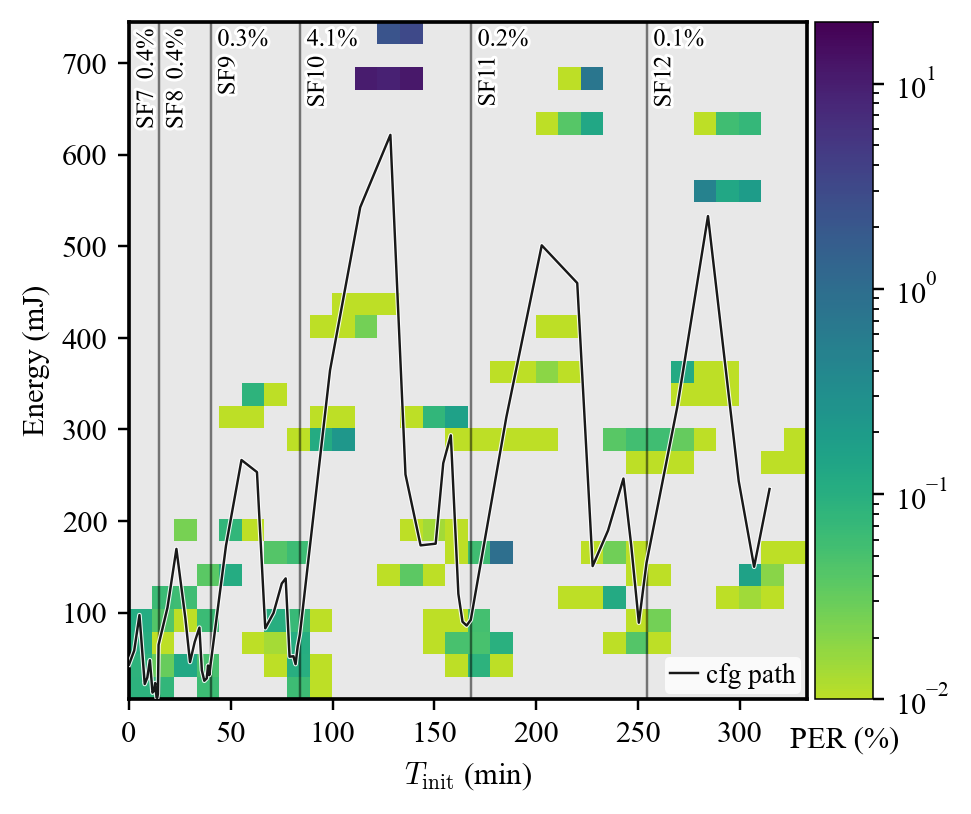
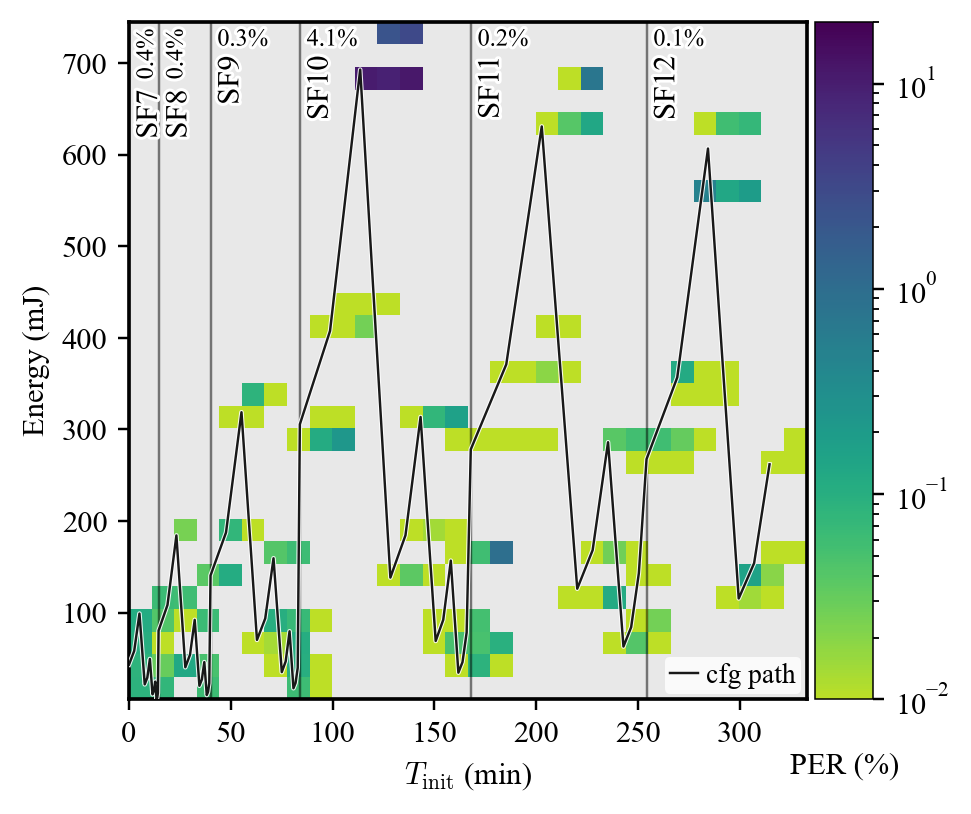
assadfsdfsaf

diff --git a/tools/plots/plot_per_gradient_energy_vs_time.py b/tools/plots/plot_per_gradient_energy_vs_time.py
@@ -916,7 +916,7 @@ def plot_combined_heatmap(output_dir, config_dir, data_root, filters, time_bins,
             else:
                 y_label = e_max - e_range * 0.05
             txt = ax.text(x_label, y_label, f"SF{sf}", ha="right", va="top",
-                            fontsize=8, color="black", zorder=6,
+                            fontsize=IEEE_FONTSIZE, color="black", zorder=6,
                             rotation=90, rotation_mode="anchor")
             txt.set_path_effects([patheffects.withStroke(linewidth=2, foreground="white")])
 
@@ -941,29 +941,22 @@ def plot_combined_heatmap(output_dir, config_dir, data_root, filters, time_bins,
                                      rotation=0, rotation_mode="anchor")
                     sub.set_path_effects([patheffects.withStroke(linewidth=2, foreground="white")])
 
-        # Configuration path: connect mean energy centroids per config period
+        # Configuration path: use switch times and energy averaged across all distances (v2 style)
         if pts:
             path_times = []
             path_energies = []
+            path_configs = []
             for i, (tm, sf, bw, tp) in enumerate(switches):
-                # Determine config period
-                t_start = tm
-                if i + 1 < len(switches):
-                    t_end = switches[i + 1][0]
-                else:
-                    t_end = t_max
-                # Clip to visible range
-                t_start_c = max(t_start, t_min)
-                t_end_c = min(t_end, t_max)
-                if t_start_c >= t_end_c:
-                    continue
-                # Packets in this config period
-                cfg_pts = [p for p in pts if t_start <= p[0] < t_end]
-                if cfg_pts:
-                    avg_e = float(np.mean([p[1] for p in cfg_pts]))
-                    path_times.append(tm)  # Use actual config switch time
+                avg_e = _config_avg_energy(data_root, filters, sf, bw, tp)
+                if avg_e is not None:
+                    path_times.append(tm)
                     path_energies.append(avg_e)
+                    path_configs.append((sf, bw, tp))
             if len(path_times) >= 2:
+                print(f"  Combined path: {len(path_times)} points")
+                for i, (t, e, cfg) in enumerate(zip(path_times, path_energies, path_configs)):
+                    cfg_str = f"SF{cfg[0]}_BW{cfg[1]}_TP{cfg[2]}"
+                    print(f"    [{i}] t={t:.2f} min, e={e:.2f} mJ ({cfg_str})")
                 ax.plot(path_times, path_energies, color="white", linewidth=1.5, zorder=3, alpha=0.9)
                 ax.plot(path_times, path_energies, color="black", linewidth=0.8, zorder=3.5, alpha=0.9, label="cfg path")
                 ax.legend(loc="lower right", fontsize=IEEE_FONTSIZE - 1, framealpha=0.8, edgecolor="none",
@@ -979,9 +972,12 @@ def plot_combined_heatmap(output_dir, config_dir, data_root, filters, time_bins,
     cax_pos = cax.get_position()
     cax.set_position([cax_pos.x0 - 0.15, cax_pos.y0, cax_pos.width, cax_pos.height])
 
-    # PER label below the colorbar, aligned with x-axis tick labels
+    # PER label below the colorbar, aligned with x-axis label
+    ax_pos = ax.get_position()
     cax_pos2 = cax.get_position()
-    fig.text(cax_pos2.x0 + cax_pos2.width / 2, cax_pos2.y0 - 0.03, "PER (%)",
+    # Use same y as x-axis label would be (slightly below plot bottom)
+    y_xlabel = ax_pos.y0 - 0.06
+    fig.text(cax_pos2.x0 + cax_pos2.width / 2, y_xlabel, "PER (%)",
              ha="center", va="top", fontsize=IEEE_FONTSIZE, color="black")
 
     _normalize_figure_fonts(fig)
@@ -1065,25 +1061,26 @@ def plot_param_transitions_bw(output_dir, config_dir, data_root, filters, time_b
             x_label = ts_c + (t_max - t_min) * 0.01
             y_label = e_max - e_range * 0.01
             txt = ax.text(x_label, y_label, f"SF{sf}", ha="right", va="top",
-                         fontsize=8, color="black", zorder=6,
+                         fontsize=IEEE_FONTSIZE, color="black", zorder=6,
                          rotation=90, rotation_mode="anchor")
             txt.set_path_effects([patheffects.withStroke(linewidth=2, foreground="white")])
 
-        # Configuration path: show full path through all configs
+        # Configuration path: one point per (SF, BW, TP) in actual measurement order
+        # Follows SF -> BW1(TP1,2,3) -> BW2(TP1,2,3) -> BW3(TP1,2,3) -> SF8 -> ...
         if pts:
             path_times = []
             path_energies = []
-            for i, (tm, sf, bw, tp) in enumerate(switches):
-                t_start = tm
-                t_end = switches[i + 1][0] if i + 1 < len(switches) else t_max
-                if max(t_start, t_min) >= min(t_end, t_max):
-                    continue
-                cfg_pts = [p for p in pts if t_start <= p[0] < t_end]
-                if cfg_pts:
-                    avg_e = float(np.mean([p[1] for p in cfg_pts]))
-                    path_times.append(tm)  # Use actual config switch time
+            path_labels = []
+            for tm, sf, bw, tp in switches:
+                avg_e = _config_avg_energy(data_root, filters, sf, bw, tp)
+                if avg_e is not None:
+                    path_times.append(tm)
                     path_energies.append(avg_e)
+                    path_labels.append(f"SF{sf}_BW{bw}_TP{tp}")
             if len(path_times) >= 2:
+                print(f"  BW plot path (SF->BWs->TPs): {len(path_times)} points")
+                for idx, (t, e, lbl) in enumerate(zip(path_times, path_energies, path_labels)):
+                    print(f"    [{idx}] {lbl}: t={t:.2f} min, e={e:.2f} mJ")
                 ax.plot(path_times, path_energies, color="white", linewidth=1.5, zorder=3, alpha=0.9)
                 ax.plot(path_times, path_energies, color="black", linewidth=0.8, zorder=3.5, alpha=0.9, label="cfg path")
                 ax.legend(loc="lower right", fontsize=IEEE_FONTSIZE - 1, framealpha=0.8, edgecolor="none",
@@ -1094,7 +1091,7 @@ def plot_param_transitions_bw(output_dir, config_dir, data_root, filters, time_b
     gs_cbars = gs_right[0].subgridspec(1, len(BW_VALUES), wspace=0.02)
     _add_param_colorbars(fig, gs_cbars, BW_VALUES, log_vmin, vmax)
     ax_leg = fig.add_subplot(gs_right[1])
-    _add_labels_inside_colorbars(fig, labels_bw, color="white", stroke_color="black")
+    _add_labels_inside_colorbars(fig, labels_bw, color="black")
     _add_legend_labels(ax_leg, [], unit="kHz", unit_y=0.88, unit_va="top")
     _pull_scales_closer(fig, len(BW_VALUES))
     _align_colorbars_to_plot(fig, len(BW_VALUES))
@@ -1164,28 +1161,39 @@ def plot_param_transitions_sf(output_dir, config_dir, data_root, filters, time_b
             x_label = ts_c + (t_max - t_min) * 0.01
             y_label = e_max - e_range * 0.01
             txt = ax.text(x_label, y_label, f"SF{sf}", ha="right", va="top",
-                         fontsize=8, color="black", zorder=6,
+                         fontsize=IEEE_FONTSIZE, color="black", zorder=6,
                          rotation=90, rotation_mode="anchor")
             txt.set_path_effects([patheffects.withStroke(linewidth=2, foreground="white")])
 
             if pts:
                 sf_pts = [p for p in pts if ts <= p[0] < te]
 
-        # Configuration path: show full path through all configs
+        # Configuration path: SF→BW→TP order (within each SF: BW62.5-TP2,12,22 → BW125-TP2,12,22 → ... → BW500-TP2,12,22)
         if pts:
+            # Store each config's switch time and energy (v2 style: switch time + _config_avg_energy)
+            config_data = {}  # (sf, bw, tp) -> (switch_time, avg_energy)
+            for i, (tm, sf, bw, tp) in enumerate(switches):
+                key = (sf, bw, tp)
+                avg_e = _config_avg_energy(data_root, filters, sf, bw, tp)
+                if avg_e is not None:
+                    config_data[key] = (tm, avg_e)
+            # Iterate SF→BW→TP: each SF in sequence, within SF go BW62.5→500 with all TPs
             path_times = []
             path_energies = []
-            for i, (tm, sf, bw, tp) in enumerate(switches):
-                t_start = tm
-                t_end = switches[i + 1][0] if i + 1 < len(switches) else t_max
-                if max(t_start, t_min) >= min(t_end, t_max):
-                    continue
-                cfg_pts = [p for p in pts if t_start <= p[0] < t_end]
-                if cfg_pts:
-                    avg_e = float(np.mean([p[1] for p in cfg_pts]))
-                    path_times.append(tm)  # Use actual config switch time
-                    path_energies.append(avg_e)
+            path_labels = []
+            for sf in SF_VALUES:
+                for bw in BW_VALUES:
+                    for tp in TP_VALUES:
+                        key = (sf, bw, tp)
+                        if key in config_data:
+                            tm, avg_e = config_data[key]
+                            path_times.append(tm)
+                            path_energies.append(avg_e)
+                            path_labels.append(f"SF{sf}_BW{bw}_TP{tp}")
             if len(path_times) >= 2:
+                print(f"  SF plot path (SF→BW→TP order): {len(path_times)} points")
+                for idx, (t, e, lbl) in enumerate(zip(path_times, path_energies, path_labels)):
+                    print(f"    [{idx}] {lbl}: t={t:.2f} min, e={e:.2f} mJ")
                 ax.plot(path_times, path_energies, color="white", linewidth=1.5, zorder=3, alpha=0.9)
                 ax.plot(path_times, path_energies, color="black", linewidth=0.8, zorder=3.5, alpha=0.9, label="cfg path")
                 ax.legend(loc="lower right", fontsize=IEEE_FONTSIZE - 1, framealpha=0.8, edgecolor="none",
@@ -1263,25 +1271,20 @@ def plot_param_transitions_tp(output_dir, config_dir, data_root, filters, time_b
             x_label = ts_c + (t_max - t_min) * 0.01
             y_label = e_max - e_range * 0.01
             txt = ax.text(x_label, y_label, f"SF{sf}", ha="right", va="top",
-                         fontsize=8, color="black", zorder=6,
+                         fontsize=IEEE_FONTSIZE, color="black", zorder=6,
                          rotation=90, rotation_mode="anchor")
             txt.set_path_effects([patheffects.withStroke(linewidth=2, foreground="white")])
 
         # Configuration path: simplified (one point per SF,BW pair)
         if pts:
-            # Group configs by (sf, bw) - collect first time and all energies
-            sf_bw_data = {}
+            # Group configs by (sf, bw) - use switch time and _config_avg_energy (v2 style)
+            sf_bw_data = {}  # (sf, bw) -> (first_switch_time, [energies])
             for i, (tm, sf, bw, tp) in enumerate(switches):
                 key = (sf, bw)
-                t_start = tm
-                t_end = switches[i + 1][0] if i + 1 < len(switches) else t_max
-                if max(t_start, t_min) >= min(t_end, t_max):
-                    continue
-                cfg_pts = [p for p in pts if t_start <= p[0] < t_end]
-                if cfg_pts:
-                    avg_e = float(np.mean([p[1] for p in cfg_pts]))
+                avg_e = _config_avg_energy(data_root, filters, sf, bw, tp)
+                if avg_e is not None:
                     if key not in sf_bw_data:
-                        sf_bw_data[key] = (tm, [])  # Use first config's time
+                        sf_bw_data[key] = (tm, [])
                     sf_bw_data[key][1].append(avg_e)
             # Build path in order: SF7->all BWs, SF8->all BWs, etc.
             path_times = []
@@ -1290,10 +1293,17 @@ def plot_param_transitions_tp(output_dir, config_dir, data_root, filters, time_b
                 for bw in BW_VALUES:
                     key = (sf, bw)
                     if key in sf_bw_data:
-                        tm, energies = sf_bw_data[key]
-                        path_times.append(tm)
+                        first_tm, energies = sf_bw_data[key]
+                        path_times.append(first_tm)
                         path_energies.append(float(np.mean(energies)))
             if len(path_times) >= 2:
+                print(f"  TP plot path (SF,BW groups): {len(path_times)} points")
+                idx = 0
+                for sf in SF_VALUES:
+                    for bw in BW_VALUES:
+                        if idx < len(path_times):
+                            print(f"    [{idx}] SF{sf}_BW{bw}: t={path_times[idx]:.2f} min, e={path_energies[idx]:.2f} mJ")
+                            idx += 1
                 ax.plot(path_times, path_energies, color="white", linewidth=1.5, zorder=3, alpha=0.9)
                 ax.plot(path_times, path_energies, color="black", linewidth=0.8, zorder=3.5, alpha=0.9, label="cfg path")
                 ax.legend(loc="lower right", fontsize=IEEE_FONTSIZE - 1, framealpha=0.8, edgecolor="none",
@@ -1304,7 +1314,7 @@ def plot_param_transitions_tp(output_dir, config_dir, data_root, filters, time_b
     gs_cbars = gs_right[0].subgridspec(1, len(TP_VALUES), wspace=0.02)
     _add_param_colorbars(fig, gs_cbars, TP_VALUES, log_vmin, vmax)
     ax_leg = fig.add_subplot(gs_right[1])
-    _add_labels_inside_colorbars(fig, labels_tp, color="white", stroke_color="black")
+    _add_labels_inside_colorbars(fig, labels_tp, color="black")
     _add_legend_labels(ax_leg, [], unit="dBm", unit_y=0.88, unit_va="top")
     _pull_scales_closer(fig, len(TP_VALUES))
     _align_colorbars_to_plot(fig, len(TP_VALUES))
